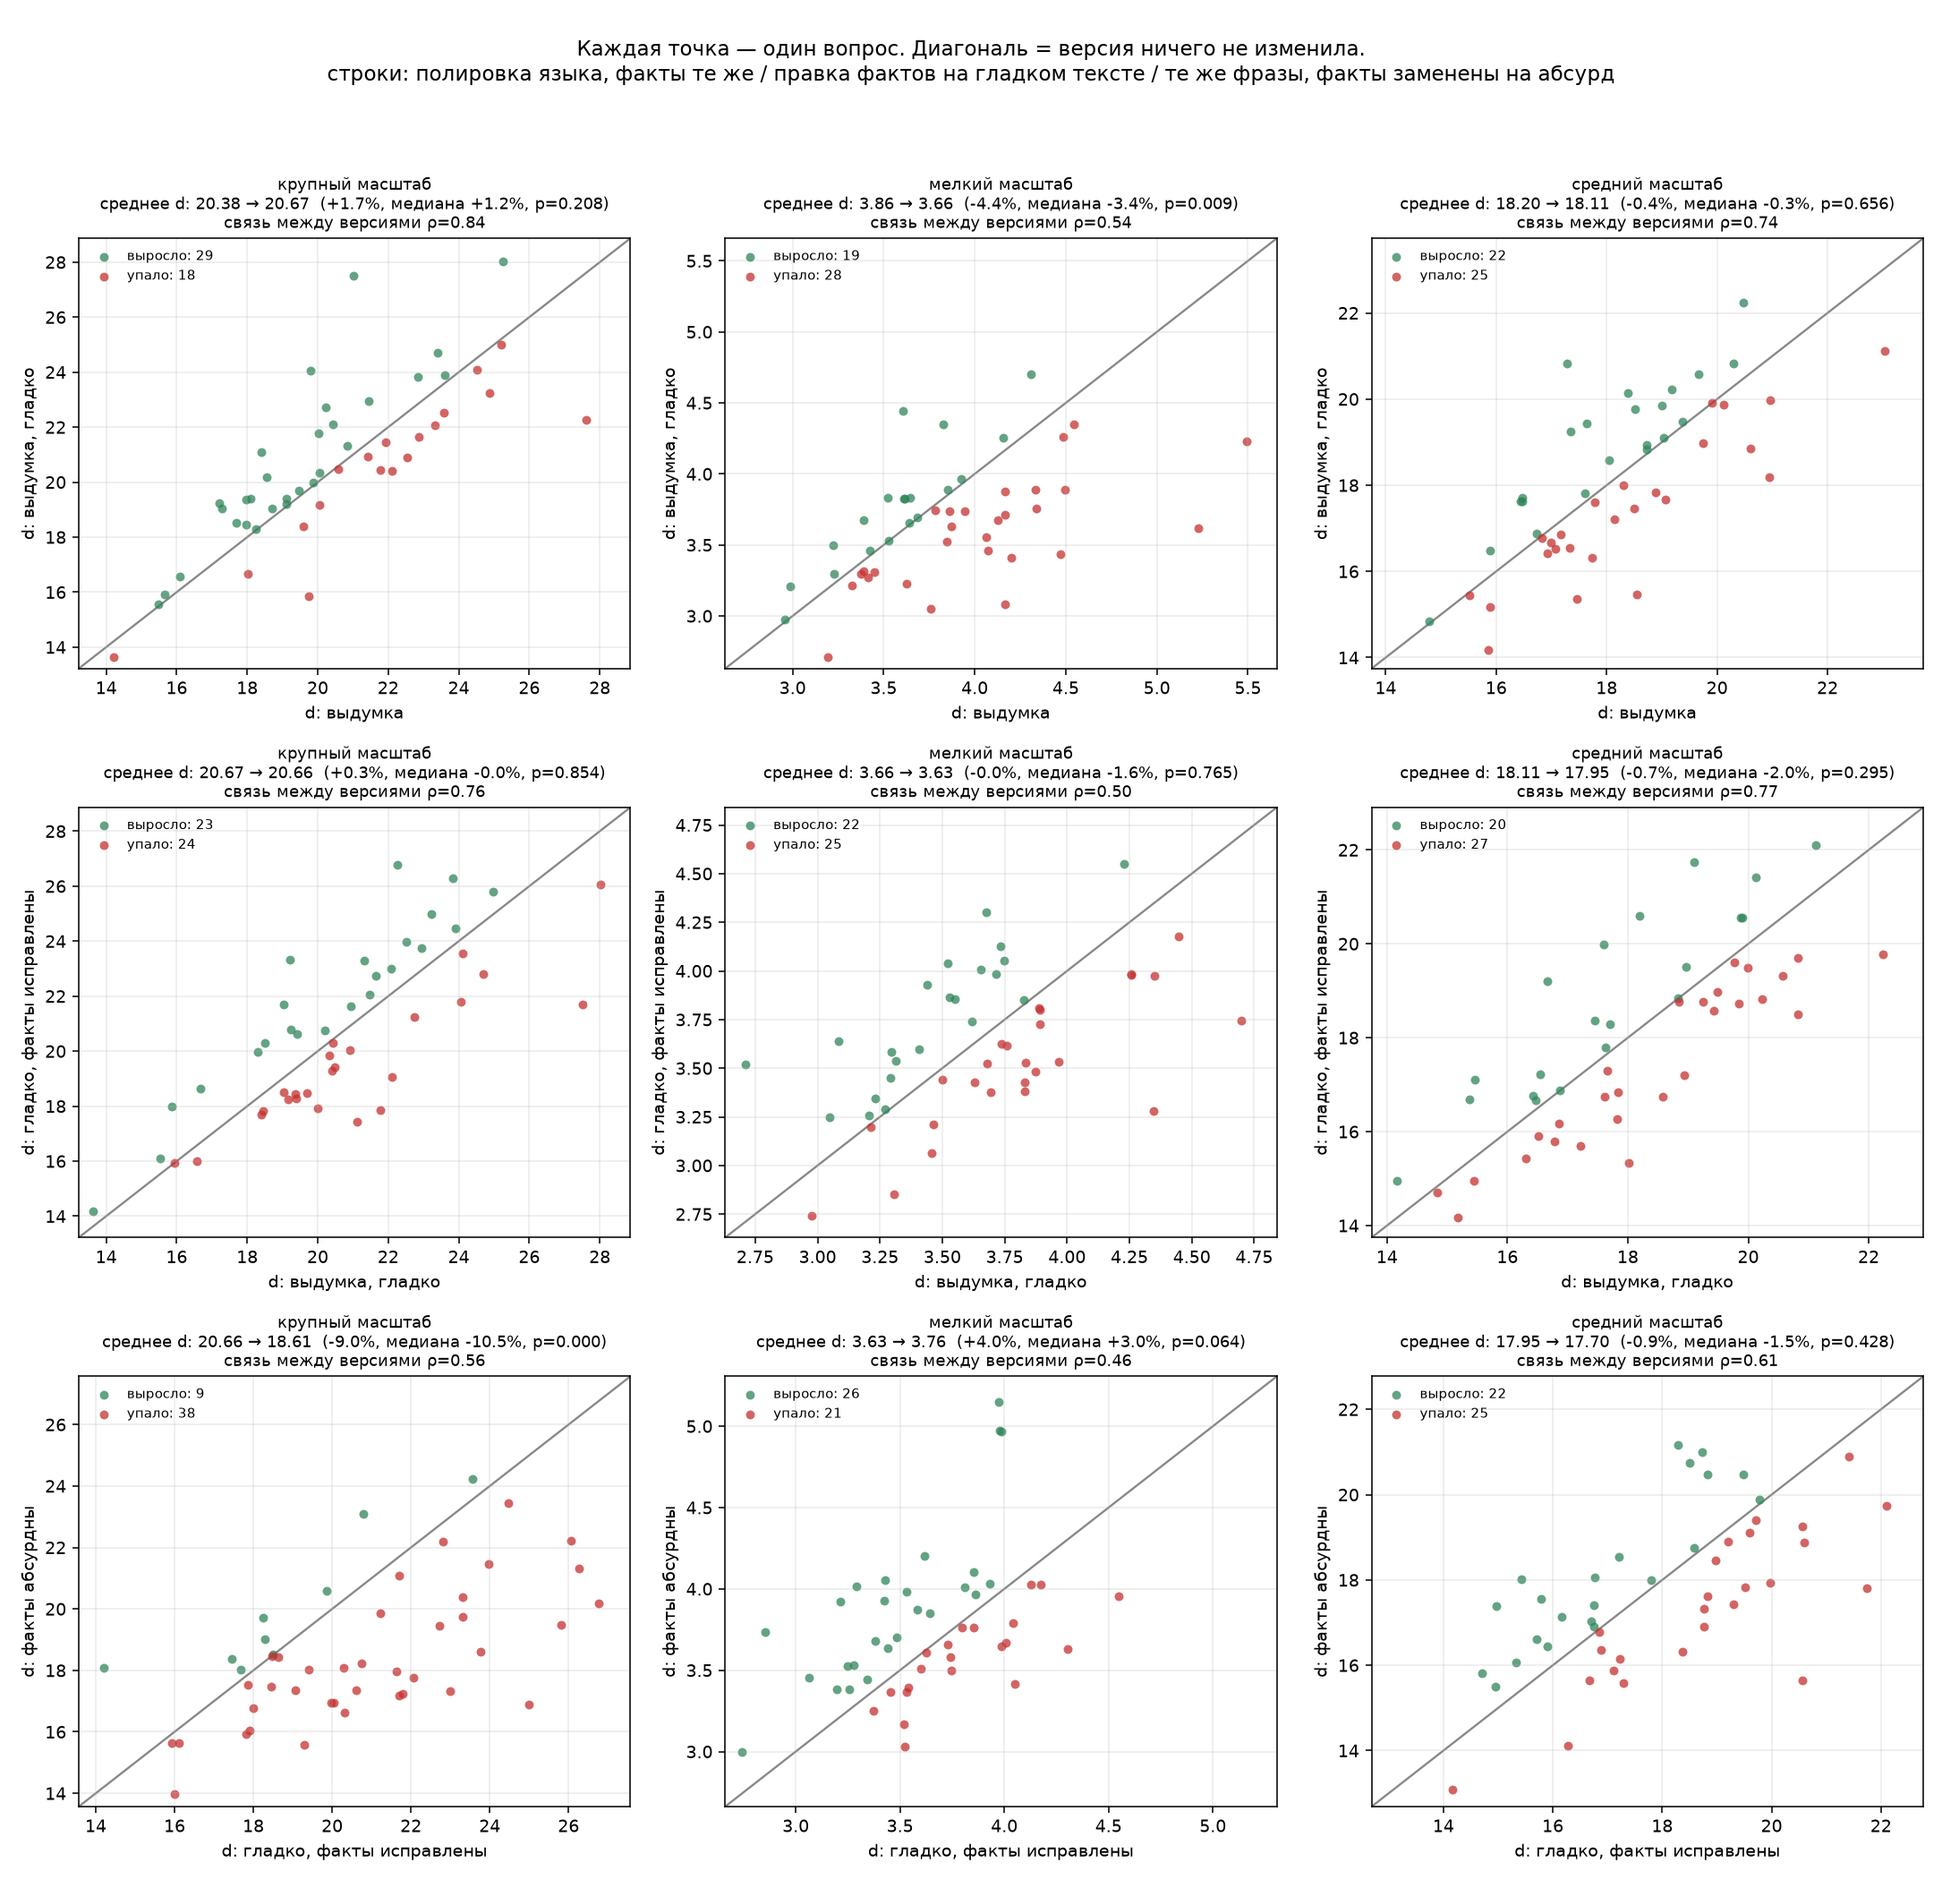
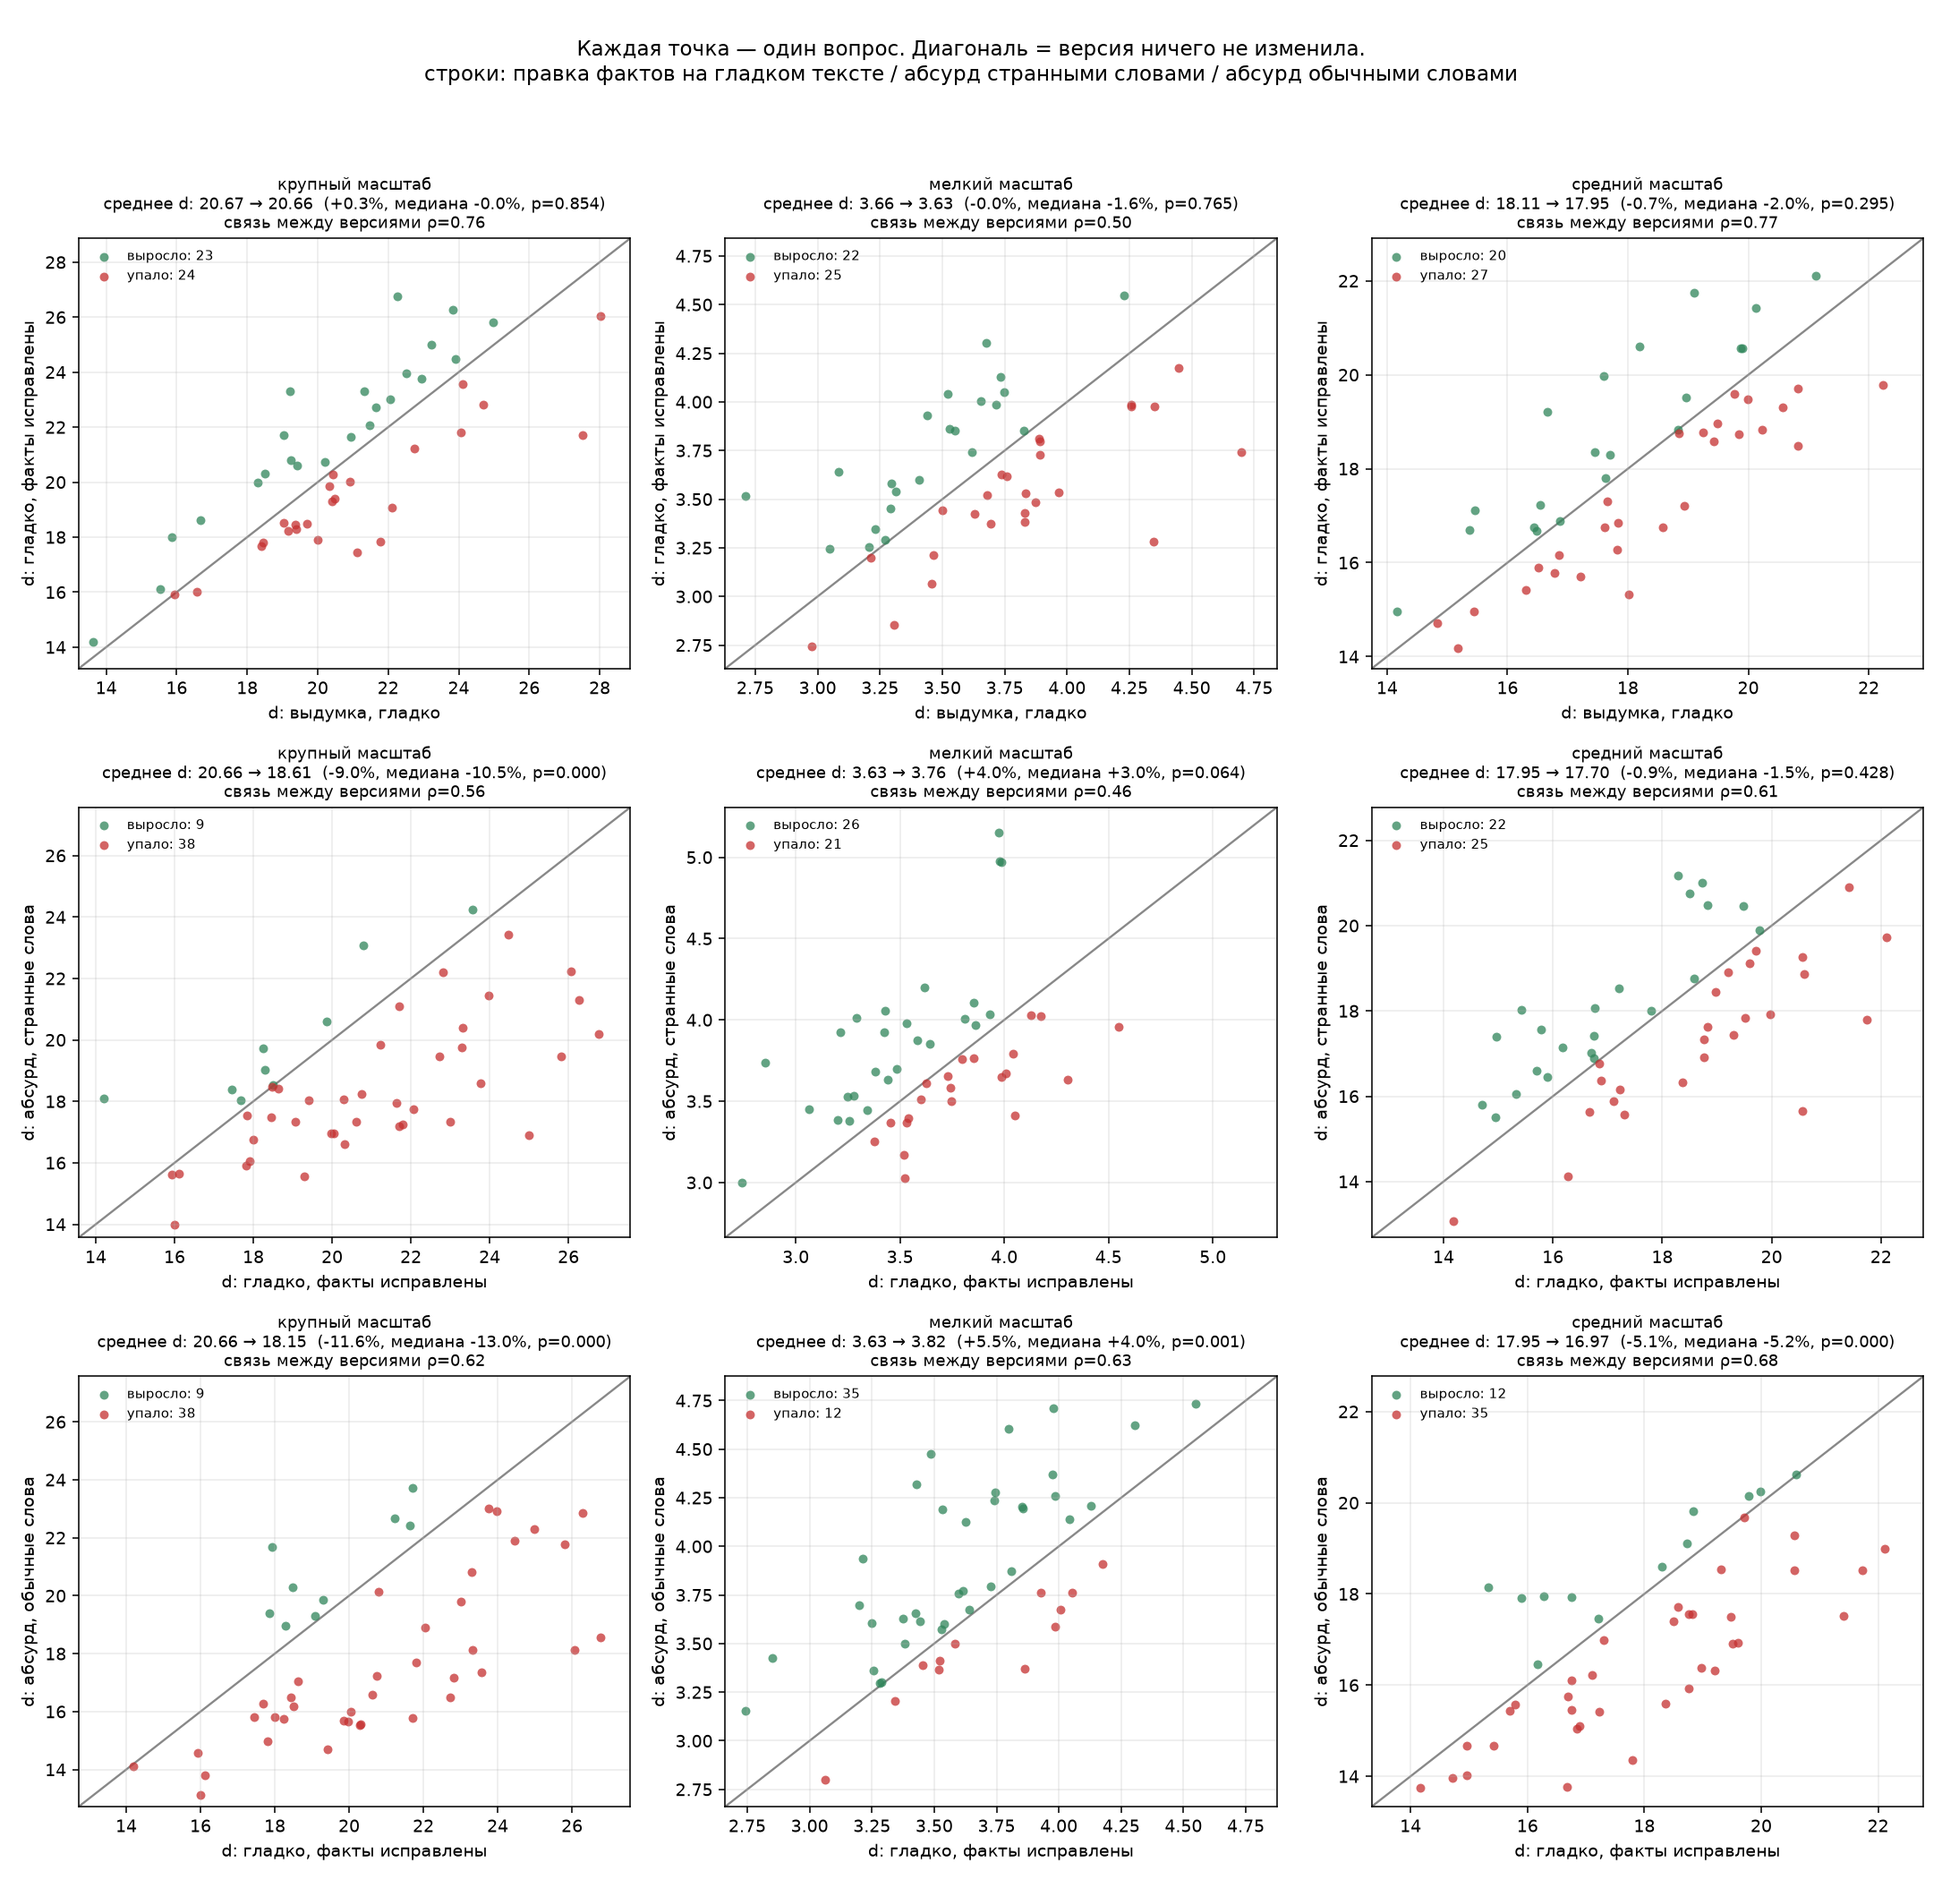
Scatter the ordinary-word absurdity, and rebuild the grid around the two arms
The grid rows are now the correction and its two mirror images, so the figure
shows the same texts losing their invention and then gaining nonsense twice
over, once with vocabulary that fragments more and once with vocabulary that
fragments less.

diff --git a/phdq_ext/experiments/halluc_scatter.py b/phdq_ext/experiments/halluc_scatter.py
@@ -26,14 +26,16 @@ from three_bands import BANDS
 
 BASE = os.path.join(HERE, "..")
 # the chain, so each row is one edit on a fixed starting point
-PAIRS = [("raw", "polished"), ("polished", "chained"),
-         ("chained", "absurd")]
+PAIRS = [("polished", "chained"), ("chained", "absurd"),
+         ("chained", "flat")]
 SHORT = {"raw": "выдумка", "polished": "выдумка, гладко",
-         "chained": "гладко, факты исправлены", "absurd": "факты абсурдны",
+         "chained": "гладко, факты исправлены",
+         "absurd": "абсурд, странные слова",
+         "flat": "абсурд, обычные слова",
          "fixed": "правка из исходника"}
-ROW = ["полировка языка, факты те же",
-       "правка фактов на гладком тексте",
-       "те же фразы, факты заменены на абсурд"]
+ROW = ["правка фактов на гладком тексте",
+       "абсурд странными словами",
+       "абсурд обычными словами"]
 
 
 def main():
@@ -53,6 +55,9 @@ def main():
          "Каждая точка — один вопрос; диагональ = размерность не сдвинулась")
     grid(W, [("chained", "absurd")], "halluc_scatter_absurd.png",
          "Те же фразы, факты заменены на откровенный абсурд.\n"
+         "Каждая точка — один вопрос; диагональ = размерность не сдвинулась")
+    grid(W, [("chained", "flat")], "halluc_scatter_flat.png",
+         "Абсурд обычными словами: токенизация не сдвинута.\n"
          "Каждая точка — один вопрос; диагональ = размерность не сдвинулась")
     print(f"({len(W)} вопросов)")
 
